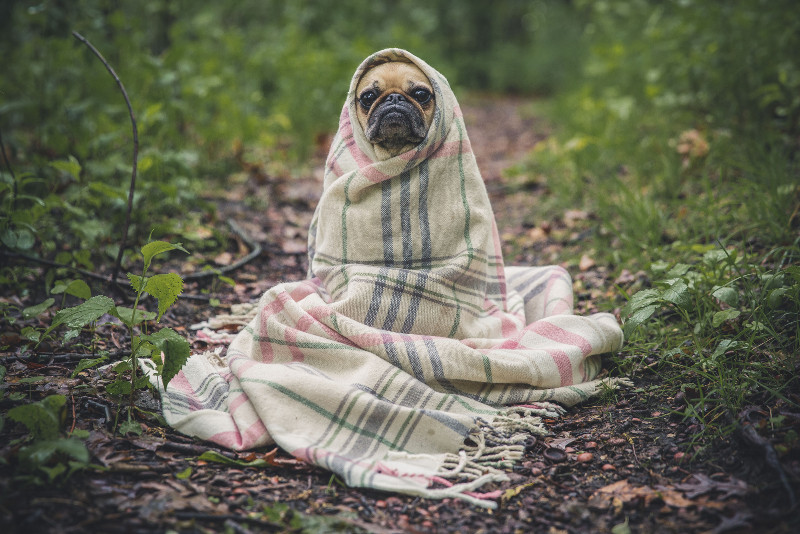
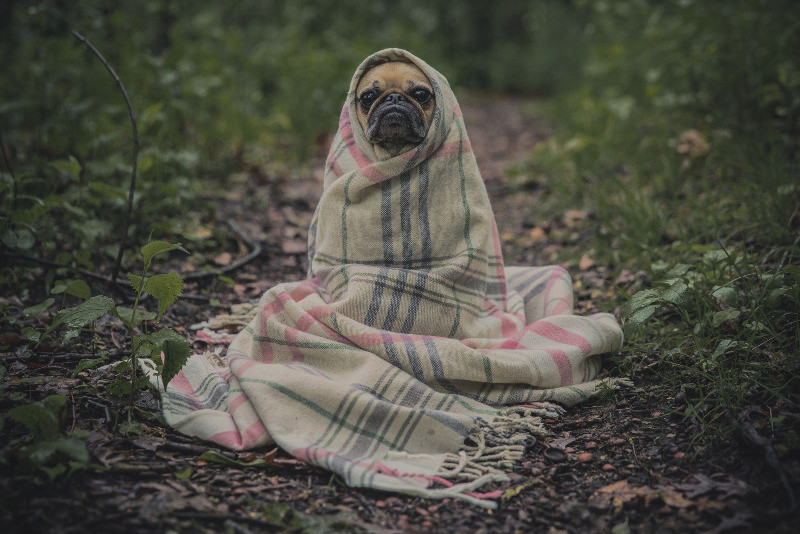
Working on the landing page, the add page, and the browse page

diff --git a/src/views/Landing.js b/src/views/Landing.js
@@ -3,7 +3,7 @@ import { connect } from 'react-redux';
 import { setCurSeason, setSeasonFilter, setOrderBy } from '../actions/';
 import Header from '../components/Header';
 import LandingHeader from '../components/LandingHeader';
-import CardLink from '../components/CardLink';
+import LandingCard from '../components/LandingCard';
 
 class Landing extends React.Component {
   constructor(props) {
@@ -15,12 +15,13 @@ class Landing extends React.Component {
     this.props.dispatchSetCurSeason();
   }
   setSeasonFilter() {
-    this.props.dispatchSetSeasonFilter(this.props.season);
+    this.props.dispatchSetSeasonFilter(this.props.seasonCode);
   }
   setOrderByDate() {
     this.props.dispatchSetOrderBy({ type: 'date', order: 'latest'});
   }
-  //CHECK IF THE ONCLICK IS TRIGGERED HERE OR IF I NEED TO PASS IT TO THE CHILD COMPONENT
+  // change the "latest" image, right now it is a pug in a scarf.
+  // fix the text on these cards being purple..
   render() {
     return (
       <main className='landing'>
@@ -29,18 +30,19 @@ class Landing extends React.Component {
         </Header>
         <div className='container'>
           <h3 className='landing-title'>En manque d'inspiration ?</h3>
-          <CardLink
+          <LandingCard
             path='browse'
-            onClick={this.setSeasonFilter}
+            background={this.props.seasonLabel}
+            clickHandler={this.setSeasonFilter}
             title='Recettes de saison'
             text={this.props.seasonText}
-            season={this.props.season}
           />
-          <CardLink
+          <LandingCard
             path='browse'
-            onClick={this.setOrderByDate}
-            title='Dernières recettes ajoutées !'
-            text={'get them while they\'re hot'}
+            background='woof'
+            clickHandler={this.setOrderByDate}
+            title='Dernières recettes ajoutées'
+            text={'Les dernières innovations de la haute cuisine vous seront révélées..'}
           />
         </div>
       </main>
@@ -48,10 +50,22 @@ class Landing extends React.Component {
   }
 }
 
-const mapStateToProps = state => ({
-  season: state.curSeason.season,
-  seasonText: state.curSeason.seasonText
-});
+const mapStateToProps = state => {
+  const code = state.curSeason;
+  const labels = {
+    0: ['woof', 'Les légumes congelés ça marche aussi..'],
+    1: ['winter', 'Des poireaux, des choux, des carottes, des choux, des poireaux et encore des poireaux..'],
+    2: ['spring', 'Des asperges & whatnot'],
+    3: ['summer', 'ENFIN ! TOMATES COURGETTES POIVRONS AUBERGINES !!!!'],
+    4: ['autumn', 'errrr, not sure right now']
+  };
+  const cur = state.curSeason;
+  return {
+    seasonCode: code,
+    seasonLabel: labels[code][0],
+    seasonText: labels[code][1]
+  }
+}
 const mapDispatchToProps = dispatch => ({
   dispatchSetCurSeason: () => dispatch(setCurSeason()),
   dispatchSetSeasonFilter: (season) => dispatch(setSeasonFilter(season)),

diff --git a/src/styles/main.css b/src/styles/main.css
@@ -1,6 +1,9 @@
 html {
   overflow-y: scroll;
 }
+body {
+  background: #f6fafa;
+}
 .nav {
   background-color: #107c91;
   display: flex;
@@ -119,7 +122,8 @@ html {
 .landing-title {
   text-align: center;
   font-style: italic;
-  margin-bottom: 3rem;
+  margin-bottom: 4rem;
+  color: #107c91;
 }
 .main-search {
   padding: 2rem 5rem;
@@ -176,6 +180,7 @@ html {
 .card__title-text {
   align-self: flex-end;
   color: #fff;
+  font-style: italic;
   margin: 0;
 }
 .card__text {
@@ -185,12 +190,22 @@ html {
   border-top: 1px solid rgba(0,0,0,0.2);
   padding: 1.6rem;
 }
+.footer {
+  margin-top: 6rem;
+}
 .footer__text {
   text-align: center;
+}
+.footer__text span {
+  font-size: 1rem;
+  font-style: italic;
 }
 
 @media (min-width: 40rem) {
   .card {
     margin: 1.6rem;
+  }
+  .wide {
+    margin: 3.2rem 1.6rem;
   }
 }

diff --git a/src/views/Add.js b/src/views/Add.js
@@ -1,7 +1,27 @@
 import React from 'react';
+import Header from '../components/Header';
+import AddHeader from '../components/AddHeader';
 
 const Add = (props) => (
-  <div className="container"><h1>'o,o'</h1></div>
+  <main className='add'>
+    <Header background={'add'}>
+      <AddHeader />
+    </Header>
+    <div className="container">
+      <form>
+        - description (main)<br />
+        - ingredients (list)<br />
+        - preparation time<br />
+        - cooking time<br />
+        - price<br />
+        - servings<br />
+        - type<br />
+        - steps (list)<br />
+        - image (you have one ?)<br />
+        - bottom / additional note<br />
+      </form>
+    </div>
+  </main>
 );
 
 export default Add;

diff --git a/src/index.js b/src/index.js
@@ -43,8 +43,8 @@ TODO :
 - Create a generic button component mdl style
 - Get the add page working fully, without styling at first
 - Get the "recipe" page working fully
+- Add English VS French version maybe ? :-( that would be cool
 - Try to see if I can cache the recipes for offline and only update the modified records, check localforage, redux persist..
 - localforage looks good, also try using the firebase rest API to reduce bundle size
 - find some improvements to start downloading other common routes from the landing page after it is interactive
-- RecipeCard component : add author ?
 */

diff --git a/src/components/LandingCard.js b/src/components/LandingCard.js
@@ -1,0 +1,22 @@
+import React from 'react';
+import Link from 'react-router/Link';
+
+const LandingCard = props => (
+  <Link to={`/${props.path}`} onClick={props.clickHandler}>
+    <div className='card wide'>
+      <div
+        className='card__title'
+        style={{ backgroundImage: `url(/public/${props.background}.jpg)` }}
+      >
+        <h4 className='card__title-text'>
+          {props.title}
+        </h4>
+      </div>
+      <div className='card__text'>
+        {props.text}
+      </div>
+    </div>
+  </Link>
+);
+
+export default LandingCard;

diff --git a/src/actions/index.js b/src/actions/index.js
@@ -31,14 +31,7 @@ export function setSeasonFilter(season) {
 export function setCurSeason() {
   // get current season 1 = winter, 2 = spring, 3 = summer, 4 = autumn, 0 = all
   const season = (new Date().getMonth() % 4) + 1;
-  const texts = {
-    0: '',
-    1: 'Hiver !!!',
-    2: 'Printemps !!!',
-    3: 'été !!!!',
-    4: 'Automne !!!'
-  };
-  return { type: 'SET_CUR_SEASON', season, seasonText: texts[season] };
+  return { type: 'SET_CUR_SEASON', season };
 }
 
 export function setOrderBy(settings) {

diff --git a/src/components/Footer.js b/src/components/Footer.js
@@ -3,7 +3,11 @@ import React from 'react';
 const Footer = props => (
   <footer className='footer'>
     <section className='container'>
-      <p className='footer__text'>footer text</p>
+      <p className='footer__text'>
+        Recettes élaborées avec amour par <a href="https://www.twitter.com/hihuz/" target="_blank">@hihuz</a> et typhon
+        <br />
+        <span>(hum oui et aussi avec l'aide de marmiton, & co...)</span>
+      </p>
     </section>
   </footer>
 );

diff --git a/src/styles/milligram.css b/src/styles/milligram.css
@@ -18,7 +18,8 @@ html {
 }
 
 body {
-  color: #606c76;
+  /*color: #606c76;*/
+  color: #344144;
   font-family: 'Roboto', 'Helvetica Neue', 'Helvetica', 'Arial', sans-serif;
   font-size: 1.6em;
   font-weight: 300;
@@ -310,6 +311,8 @@ input[type='radio'] {
 
 a {
   text-decoration: none;
+  /*color: #606c76;*/
+  color: #344144; /* added by yours truly.. */
 }
 
 dl,

diff --git a/src/reducers/curSeason.js b/src/reducers/curSeason.js
@@ -1,7 +1,7 @@
-const curSeason = (state = { season: 0, seasonText: '' }, action) => {
+const curSeason = (state = 0, action) => {
   switch (action.type) {
     case 'SET_CUR_SEASON':
-      return { season: action.season, seasonText: action.seasonText }
+      return action.season;
     default:
       return state;
   }

diff --git a/src/components/AddHeader.js b/src/components/AddHeader.js
@@ -1,0 +1,12 @@
+import React from 'react';
+import Link from 'react-router/Link';
+
+const AddHeader = () => (
+  <section className='main-add'>
+    Ah ! on veut ajouter une recette ?
+    <br />
+    Nom de la recette : <input type='text' />
+  </section>
+);
+
+export default AddHeader;
